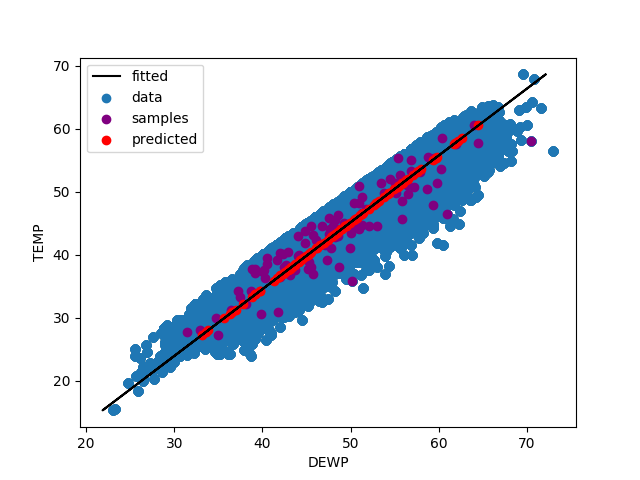
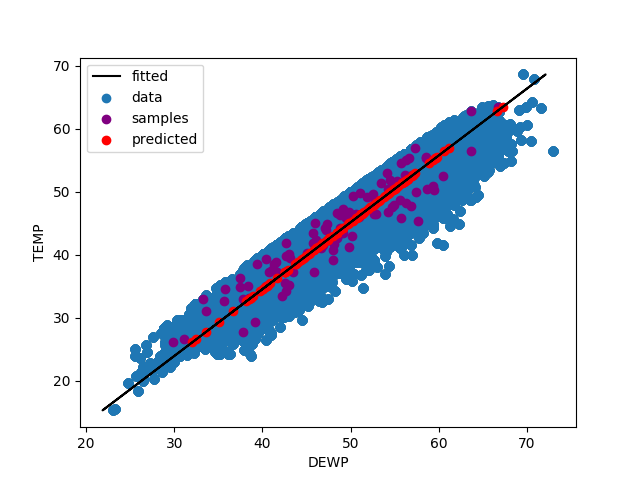
updated figures

Changed region(s): [[0.25, 0.2188, 0.8125, 0.7188], [0.8125, 0.2812, 0.8438, 0.3125], [0.6875, 0.4375, 0.7188, 0.4688]]

diff --git a/homework 2/homework2.py b/homework 2/homework2.py
@@ -13,6 +13,7 @@ df = df[df["DEWP"] != 9999.9]
 df = df[df["SLP"] != 9999.9]
 df = df[df["MAX"] != 9999.9]
 df = df[df["MIN"] != 9999.9]
+df = df[df["MXSPD"] != 999.9]
 
 
 #get sample set
@@ -30,29 +31,53 @@ y2 = res.predict(smpl['DEWP'])
 print("rmse:",em.rmse(smpl['DEWP'], y2))
 
 
-plt.scatter(df2['TEMP'],df2['DEWP'],label="data")
-plt.scatter(smpl["TEMP"],smpl["DEWP"], color="purple",label="samples")
-plt.scatter(y2,smpl["DEWP"], color="red",label = "predicted")
-plt.plot(res.fittedvalues, df2['DEWP'],label="fitted", color="black")
-plt.legend()
-plt.xlabel('DEWP')
-plt.ylabel('TEMP')
-plt.savefig('partA.png')
-plt.show()
+#plt.scatter(df2['TEMP'],df2['DEWP'],label="data")
+#plt.scatter(smpl["TEMP"],smpl["DEWP"], color="purple",label="samples")
+#plt.scatter(y2,smpl["DEWP"], color="red",label = "predicted")
+#plt.plot(res.fittedvalues, df2['DEWP'],label="fitted", color="black")
+#plt.legend()
+#plt.xlabel('DEWP')
+#plt.ylabel('TEMP')
+#plt.savefig('partA.png')
+#plt.show()
 
-plt.boxplot(df['TEMP'])
-plt.savefig('temp.png')
-plt.show()
-plt.boxplot(df['DEWP'])
-plt.savefig('dewp.png')
-plt.show()
-plt.boxplot(df['SLP'])
-plt.savefig('slp.png')
-plt.show()
+#plt.boxplot(df['TEMP'])
+#plt.savefig('temp.png')
+#plt.show()
+#plt.boxplot(df['DEWP'])
+#plt.savefig('dewp.png')
+#plt.show()
+# plt.boxplot(df['SLP'])
+# plt.savefig('slp.png')
+# plt.show()
 plt.boxplot(df['MIN'])
 plt.savefig('min.png')
-plt.show()
-plt.boxplot(df['MAX'])
-plt.savefig('max.png')
-plt.show()
+#plt.show()
+# plt.boxplot(df['MAX'])
+# plt.savefig('max.png')
+#plt.show()
 
+
+# plt.scatter(df2['TEMP'],df2['SLP'],label="temp_slp")
+# plt.xlabel('TEMP')
+# plt.ylabel('SLP')
+# plt.savefig('temp_slp.png')
+# plt.show()
+
+# plt.scatter(df2['TEMP'],df2['MXSPD'],label="temp_mxspd")
+# plt.xlabel('TEMP')
+# plt.ylabel('MXSPD')
+# plt.savefig('temp_mxspd.png')
+# plt.show()
+#
+# plt.scatter(df2['DEWP'],df2['MXSPD'],label="dewp_mxspd")
+# plt.xlabel('DEWP')
+# plt.ylabel('MXSPD')
+# plt.savefig('dewp_mxspd.png')
+# plt.show()
+#
+# plt.scatter(df2['DEWP'],df2['SLP'],label="dewp_slp")
+# plt.xlabel('DEWP')
+# plt.ylabel('SLP')
+# plt.savefig('dewp_slp.png')
+# plt.show()
